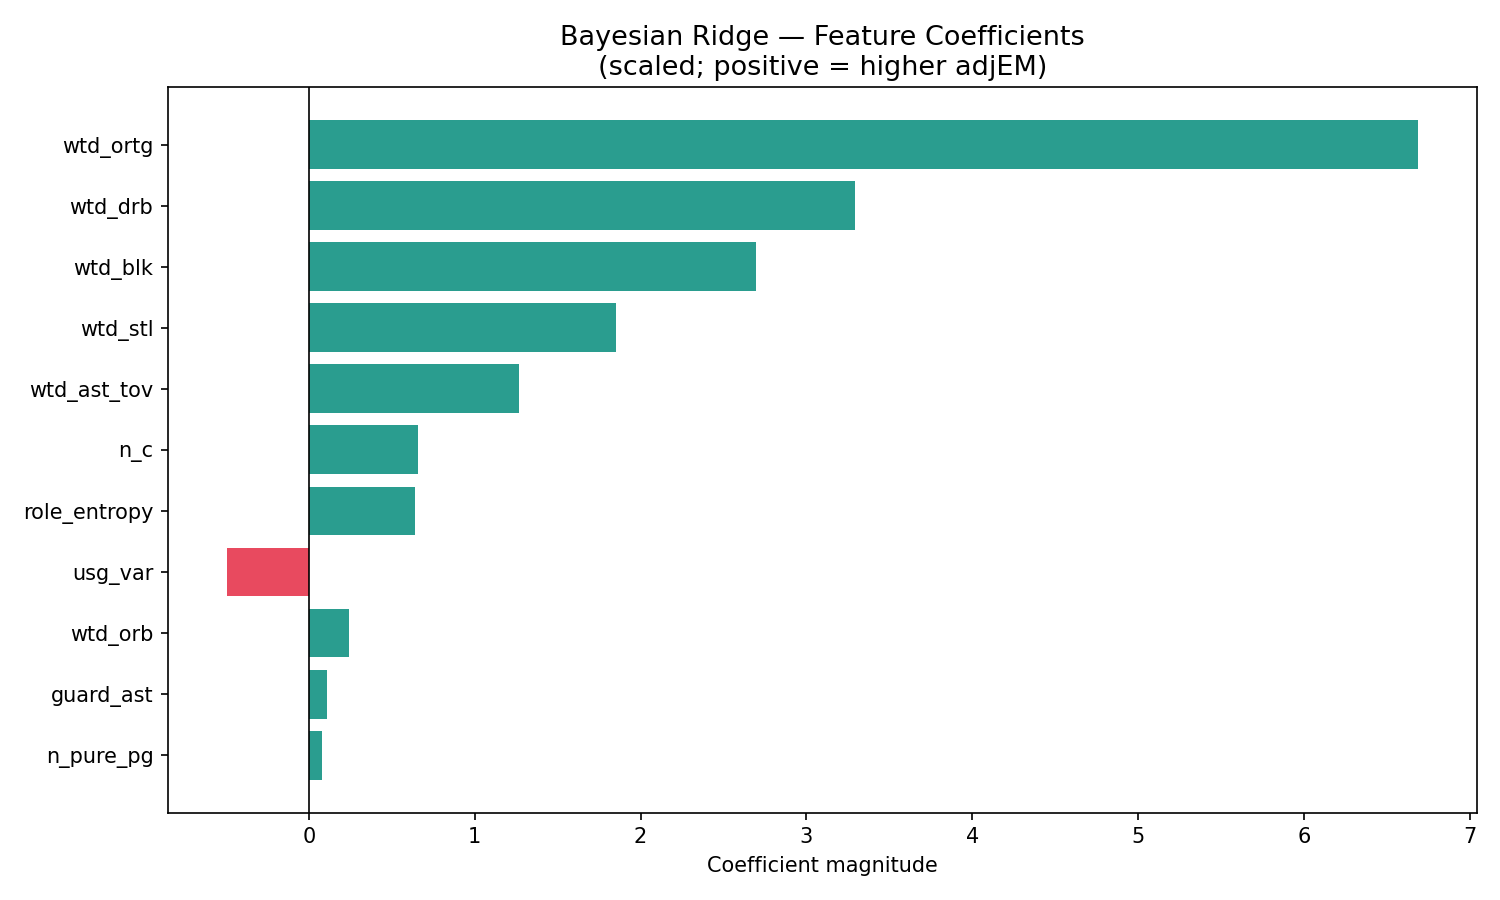
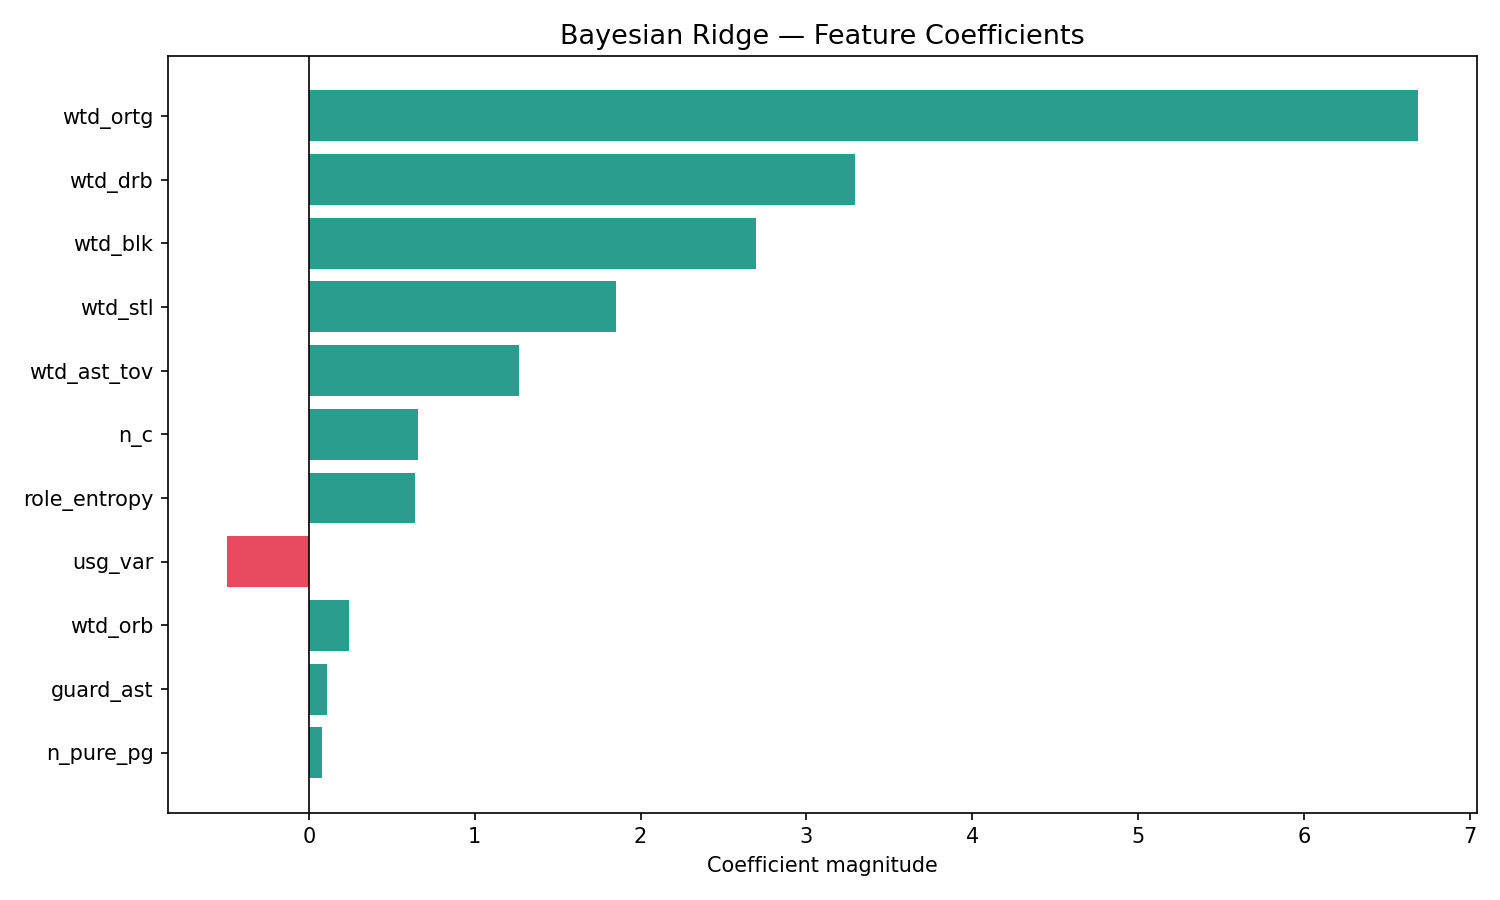
modified lineup rankings tab to show avg and top 10% instead of worst lineup and spread

diff --git a/app/streamlit_app.py b/app/streamlit_app.py
@@ -18,7 +18,7 @@ from itertools import combinations
 import json
 import math
 
-# ── PAGE CONFIG ───────────────────────────────────────────────────────────────
+# PAGE CONFIG
 
 st.set_page_config(
     page_title="Illinois Lineup Optimizer",
@@ -28,7 +28,7 @@ st.set_page_config(
 )
 
 
-# ── CONSTANTS ─────────────────────────────────────────────────────────────────
+# CONSTANTS 
 MIN_PCT_THRESHOLD = 15.0
 FRONTCOURT_ROLES = {"Stretch 4", "PF/C", "C"}
 GUARD_ROLES      = {"Pure PG", "Scoring PG", "Combo G"}
@@ -44,7 +44,7 @@ SYNERGY_PAIRS = [
     ("Wing F",     "Pure PG"),
 ]
 
-# ── LOAD ARTIFACTS (after set_page_config) ────────────────────────────────────
+# LOAD ARTIFACTS 
 @st.cache_resource
 def load_model():
     artifact = joblib.load("../models/lineup_model.pkl")
@@ -87,9 +87,8 @@ def build_lineup_features(lineup_players: pd.DataFrame) -> dict:
     denom = grp['TPA'] + grp['twoPA']
     grp['TPAR'] = np.where(denom > 0, grp['TPA'] / denom, 0.0)
 
-    # Re-weight minutes to sum to 1 within this lineup
     if grp["Min_per"].sum() == 0:
-        grp["Min_per"] = 1.0  # equal weighting fallback
+        grp["Min_per"] = 1.0 
     w = grp["Min_per"] / grp["Min_per"].sum()
 
     wtd_obpm  = (grp["obpm"]    * w).sum()
@@ -151,8 +150,6 @@ def predict_lineup(pipeline, feat_cols: list, lineup_players: pd.DataFrame):
     feats = build_lineup_features(lineup_players)
     X = np.array([[feats.get(c, 0.0) for c in feat_cols]])
     X = np.nan_to_num(X, nan=0.0, posinf=0.0, neginf=0.0) 
-
-    # BayesianRidge exposes posterior std via return_std
     scaler = pipeline.named_steps["scaler"]
     selector = pipeline.named_steps["feature_selection"]
     model  = pipeline.named_steps["model"]
@@ -199,7 +196,7 @@ def make_label(players_str):
             short.append(n)
     return " / ".join(short)
 
-# ── THEME ─────────────────────────────────────────────────────────────────────
+# THEME 
 
 st.markdown("""
 <style>
@@ -367,7 +364,7 @@ html, body, [class*="css"] {
 </style>
 """, unsafe_allow_html=True)
 
-# ── SIDEBAR ───────────────────────────────────────────────────────────────────
+# SIDEBAR
 
 with st.sidebar:
     st.markdown("### ⚙️ Settings")
@@ -430,9 +427,7 @@ tab1, tab2, tab3, tab4 = st.tabs([
     "🏀 Portal Simulator",
 ])
 
-# ════════════════════════════════════════════════════════════════════════════
 # TAB 1 — LINEUP RANKINGS
-# ════════════════════════════════════════════════════════════════════════════
 
 with tab1:
     st.markdown('<div class="section-title">All Possible Lineups — Ranked by Projected adjEM</div>',
@@ -450,8 +445,10 @@ with tab1:
 
     # Summary metrics
     best  = rankings.iloc[0]
-    worst = rankings.iloc[-1]
-    spread = best["pred_adjEM"] - worst["pred_adjEM"]
+    avg = rankings['pred_adjEM'].mean()
+    cutoff = rankings['pred_adjEM'].quantile(0.9)
+    top_10_avg = rankings[rankings['pred_adjEM']>cutoff]['pred_adjEM'].mean()
+    #spread = best["pred_adjEM"] - worst["pred_adjEM"]
 
     c1, c2, c3, c4 = st.columns(4)
     with c1:
@@ -464,22 +461,23 @@ with tab1:
     with c2:
         st.markdown(f"""
         <div class="metric-card">
-            <div class="label">Worst Lineup adjEM</div>
-            <div class="value">+{worst['pred_adjEM']:.1f}</div>
+            <div class="label">Average Lineup adjEM</div>
+            <div class="value">+{avg:.1f}</div>
             <div class="sub">Projected efficiency margin</div>
         </div>""", unsafe_allow_html=True)
     with c3:
         st.markdown(f"""
         <div class="metric-card">
-            <div class="label">Lineup Spread</div>
-            <div class="value">{spread:.1f}</div>
-            <div class="sub">Best minus worst adjEM</div>
+            <div class="label">Top 10% Lineup Average</div>
+            <div class="value">{top_10_avg:.1f}</div>
+            <div class="sub">Projected efficiency margin</div>
         </div>""", unsafe_allow_html=True)
     with c4:
         st.markdown(f"""
         <div class="metric-card">
             <div class="label">Total Lineups</div>
             <div class="value">{n_combos}</div>
+            <div class="sub"> Calculated based on {len(roster)} rotation players</div>
         </div>""", unsafe_allow_html=True)
 
     st.markdown("<br>", unsafe_allow_html=True)
@@ -557,10 +555,9 @@ with tab1:
         mime="text/csv",
     )
 
-# ════════════════════════════════════════════════════════════════════════════
-# TAB 2 — WHAT-IF SIMULATOR
-# ════════════════════════════════════════════════════════════════════════════
 
+# TAB 2 — WHAT-IF SIMULATOR
+ 
 with tab2:
     st.markdown('<div class="section-title">Build Any 5-Man Lineup</div>',
                 unsafe_allow_html=True)
@@ -695,9 +692,8 @@ with tab2:
     else:
         st.info("Select 5 players to get started.")
 
-# ════════════════════════════════════════════════════════════════════════════
+
 # TAB 3 — SYNERGY EXPLORER
-# ════════════════════════════════════════════════════════════════════════════
 
 with tab3:
     st.markdown('<div class="section-title">Role Synergy Heatmap</div>',
@@ -812,9 +808,7 @@ with tab3:
 
     st.dataframe(impact_df, use_container_width=True, hide_index=True)
 
-# ════════════════════════════════════════════════════════════════════════════
 # TAB 4 — PORTAL SIMULATOR
-# ════════════════════════════════════════════════════════════════════════════
 
 with tab4:
     st.markdown('<div class="section-title">Transfer Portal Fit Analyzer</div>',